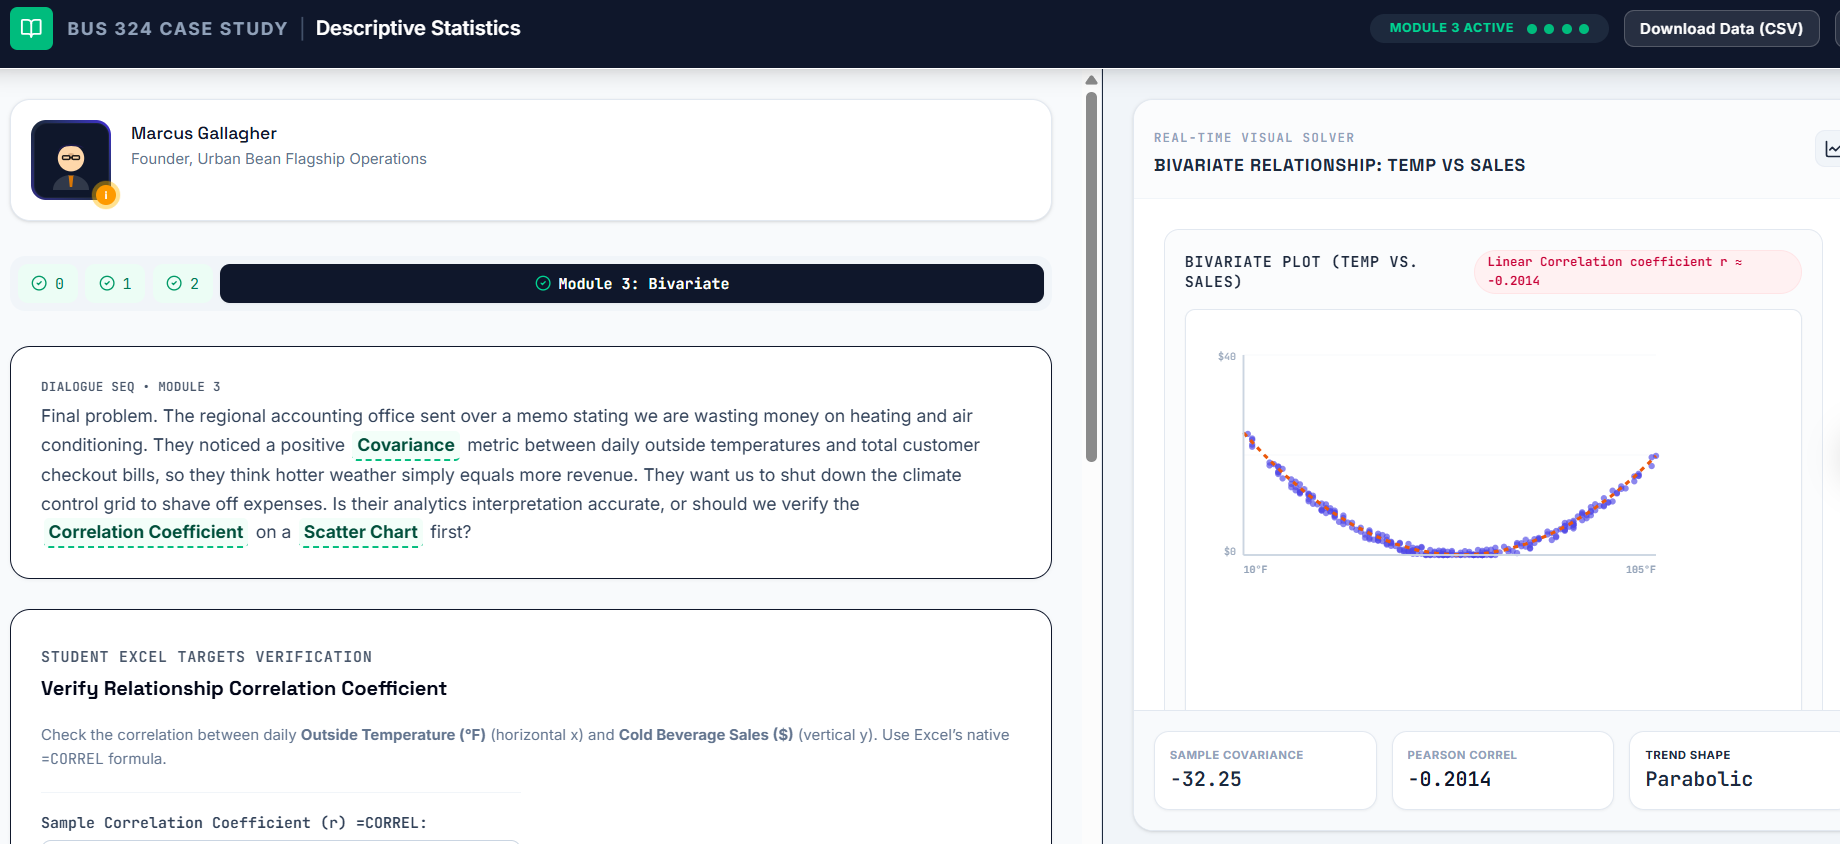
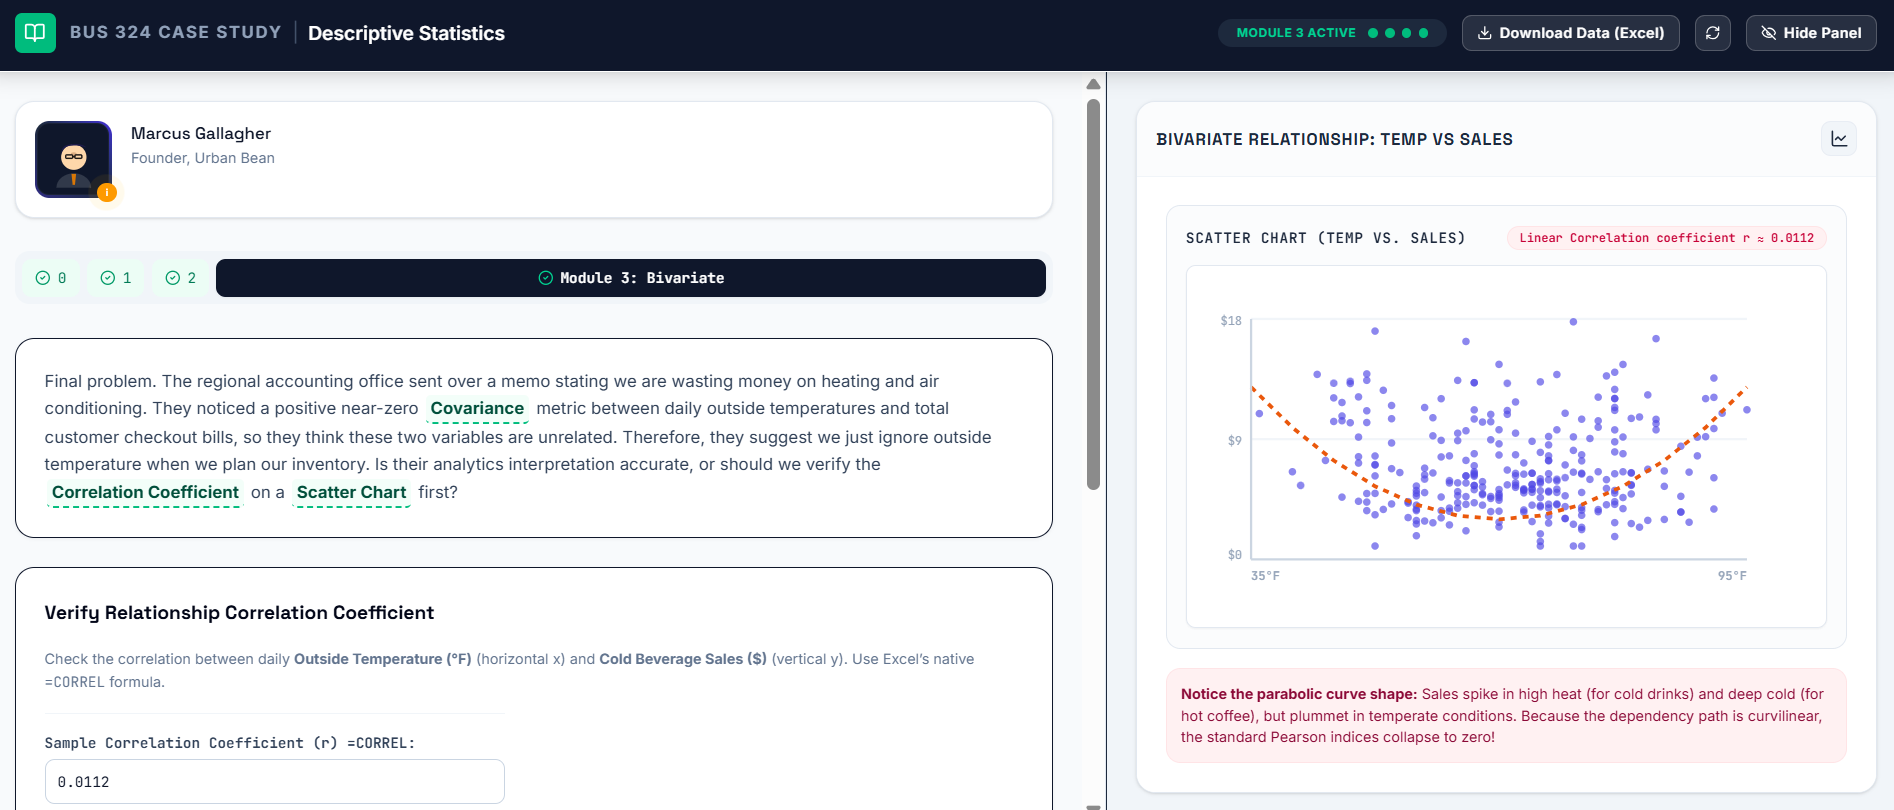
Update publications page, CV, and statistics applet

diff --git a/_pages/publications.md b/_pages/publications.md
@@ -19,6 +19,32 @@ You can also find my articles on my [Google Scholar profile](https://scholar.goo
    <details><summary> Abstract </summary> <br> Budgeting and planning processes require medium-term sales forecasts with marketing scenarios. The complexity in modern retailing necessitates consistent, automatic forecasting and insight generation. Remedies to the high dimensionality problem have drawbacks; black box machine learning methods require voluminous data and lack insights, while regularization may bias causal estimates in interpretable models. <br> The proposed FAIR (Fully Automatic Interpretable Retail Forecasting) method supports the retail planning process with multi-step-ahead category-store level forecasts, scenario evaluations, and insights. It considers category-store-specific seasonality, focal- and cross-category marketing, and adaptive base sales while dealing with regularization-induced confounding. <br> We show, with three chains from the IRI dataset involving 30 categories, that regularization-induced confounding decreases forecast accuracy. By including focal- and cross-category marketing, as well as random disturbances, forecast accuracy is increased. FAIR is more accurate than the black box machine learning method Boosted Trees and other benchmarks while also providing insights that are in line with the marketing literature. </details>
 
 ### Under Review
+- R Gürlek, DS KC. [Generative AI and Physician Productivity](
+  https://papers.ssrn.com/sol3/papers.cfm?abstract_id=6755362).
+	<details><summary> Abstract </summary> <br> Clinical documentation
+	imposes a significant burden on healthcare providers, consuming substantial
+	clinician time and contributing to after-hours work that extends well beyond
+	the clinical day. We study whether a rapidly diffusing generative AI
+	application, ambient clinical documentation, can meaningfully reduce this
+	burden. We partner with a large East Coast healthcare system that
+	implemented an ambient AI tool across a range of outpatient settings and
+	provider types. We link detailed adoption and utilization data to
+	operational outcomes measured in the EHR: note activity time, total EHR
+	time, after-hours documentation, and productivity measures tied to
+	reimbursement, specifically relative value units (RVUs) and patient
+	charges. Leveraging staggered adoption, we employ a difference-in-
+	differences design complemented by models that exploit variation in
+	utilization intensity. We find that adoption reduces note activity time by
+	approximately 12% on average, with reductions exceeding 20% among higher-
+	utilization adopters. The benefits arise immediately, extend to reductions
+	in total EHR time and after-hours work, and are accompanied by increases in
+	RVUs and charges. Effects are heterogeneous and scale with intensity of
+	use. The largest gains accrue to less experienced clinicians, advanced
+	practice providers, and primary care settings. Taken together, the findings
+	provide strong evidence that ambient GenAI can simultaneously reduce
+	administrative burden and improve operational and financial performance
+	across a wide range of provider types and practice contexts. </details>
+
 - R Gürlek, F de Véricourt, DKK Lee. [Boosted Generalized Normal Distributions: Integrating Machine Learning with Operations Knowledge](https://papers.ssrn.com/sol3/papers.cfm?abstract_id=4906838).
 	<details><summary> Abstract </summary> <br> Applications of machine learning (ML) techniques to operational settings often face two challenges: i) ML methods mostly provide point predictions whereas many operational problems require distributional information; and ii) They typically do not incorporate the extensive body of knowledge in the operations literature, particularly the findings that characterize specific distributions. We introduce a novel methodology, the boosted Generalized Normal Distribution (<em>b</em>GND), to address these challenges. <em>b</em>GND leverages gradient boosted trees to flexibly estimate the parameters of the GND as functions of covariates, and can be used to model a wide range of parametric distributions encountered in operations. We establish <em>b</em>GND's statistical consistency, thereby extending this key property to special cases studied in the ML literature that lacked such guarantees. Using data from a large academic emergency department in the U.S., we show that the distributional forecasts of patient wait and service times can be meaningfully improved by leveraging findings from the healthcare operations literature. Relative to forecasts from the distribution-agnostic ML benchmark, <em>b</em>GND can potentially improve patient satisfaction by 9% and increase hospital earnings by \$120,000 per 10,000 visits. Our work underscores the importance of integrating ML with operations knowledge to enhance distributional forecasts. </details>
 
@@ -30,4 +56,7 @@ You can also find my articles on my [Google Scholar profile](https://scholar.goo
    <details><summary> Abstract </summary> <br> <b>Problem definition:</b> Sequencing of consumption has significant implications for enjoyment of experiential goods and derived ex-post utility due to psychological and physiological effects, such as satiation, habituation, or memory decay. In this paper, we examine the effect of consumption sequencing on ex-ante valuations of bundles, with the goal of increasing consumer surplus and revenue. <br> <b>Methodology/results:</b> We conduct a lab experiment to elicit preferences and willingness to pay for three bundles of goods consisting of two high (H) type products and one low (L) type product that vary only in the position of low type product. We find that consistent with the satiation model, 53% of subjects prefer the HLH sequence, placing an approximately 2.7% greater ex-ante valuation over the second-best LHH sequence. The LHH sequence is optimal under the acclimation, and memory decay model and preferred by 31% of subjects. The front-loaded HHL sequence, optimal under the discounted expected utility model, is preferred by 16% of subjects. We estimate the parameters of the satiation model and find that satiation effects are significant with a half-life of 17 hours. <br> <b>Managerial implications:</b> Using the calibrated satiation model, we optimize consumption for each period and find that, compared to a bundle with equal consumption in each period, the optimal bundle has a greater selling probability and achieves a revenue lift in excess of 4.5%. </details>
 
 ### Work-In-Progress:
-- Designing and Comparing Custom Interventions to Mitigate Product Returns
+- From Configuration to Conversion: Evidence from a Large-Scale
+  Field Experiment
+- Can Internal Carbon Policies Fill the Emissions Gap Left by External
+  Policies? Evidence from a multinational Corporation

diff --git a/_teaching/apps/2026-05-29-bus-324-statistics-applet.md b/_teaching/apps/2026-05-29-bus-324-statistics-applet.md
@@ -21,7 +21,7 @@ GEMINI COMMENTS
 
 {% include base_path %}
 
-This interactive web application replaces traditional, static teaching materials with a live, story-driven data simulation. Designed for undergraduate business analytics students, the simulation contextualizes statistical abstractions into a continuous narrative. The applet builds data empathy, provides an active learning laboratory, and delivers an immediate feedback loop for student data modifications.
+This interactive web application offers a live, story-driven business analytics case study. Designed for undergraduate business analytics students, the simulation contextualizes statistical abstractions into a continuous narrative. The applet builds data empathy, provides an active learning laboratory, and delivers an immediate feedback loop for student analysis.
 
 <a href="{{ page.link }}" class="btn btn--primary btn--large">Launch Live App</a>
 
